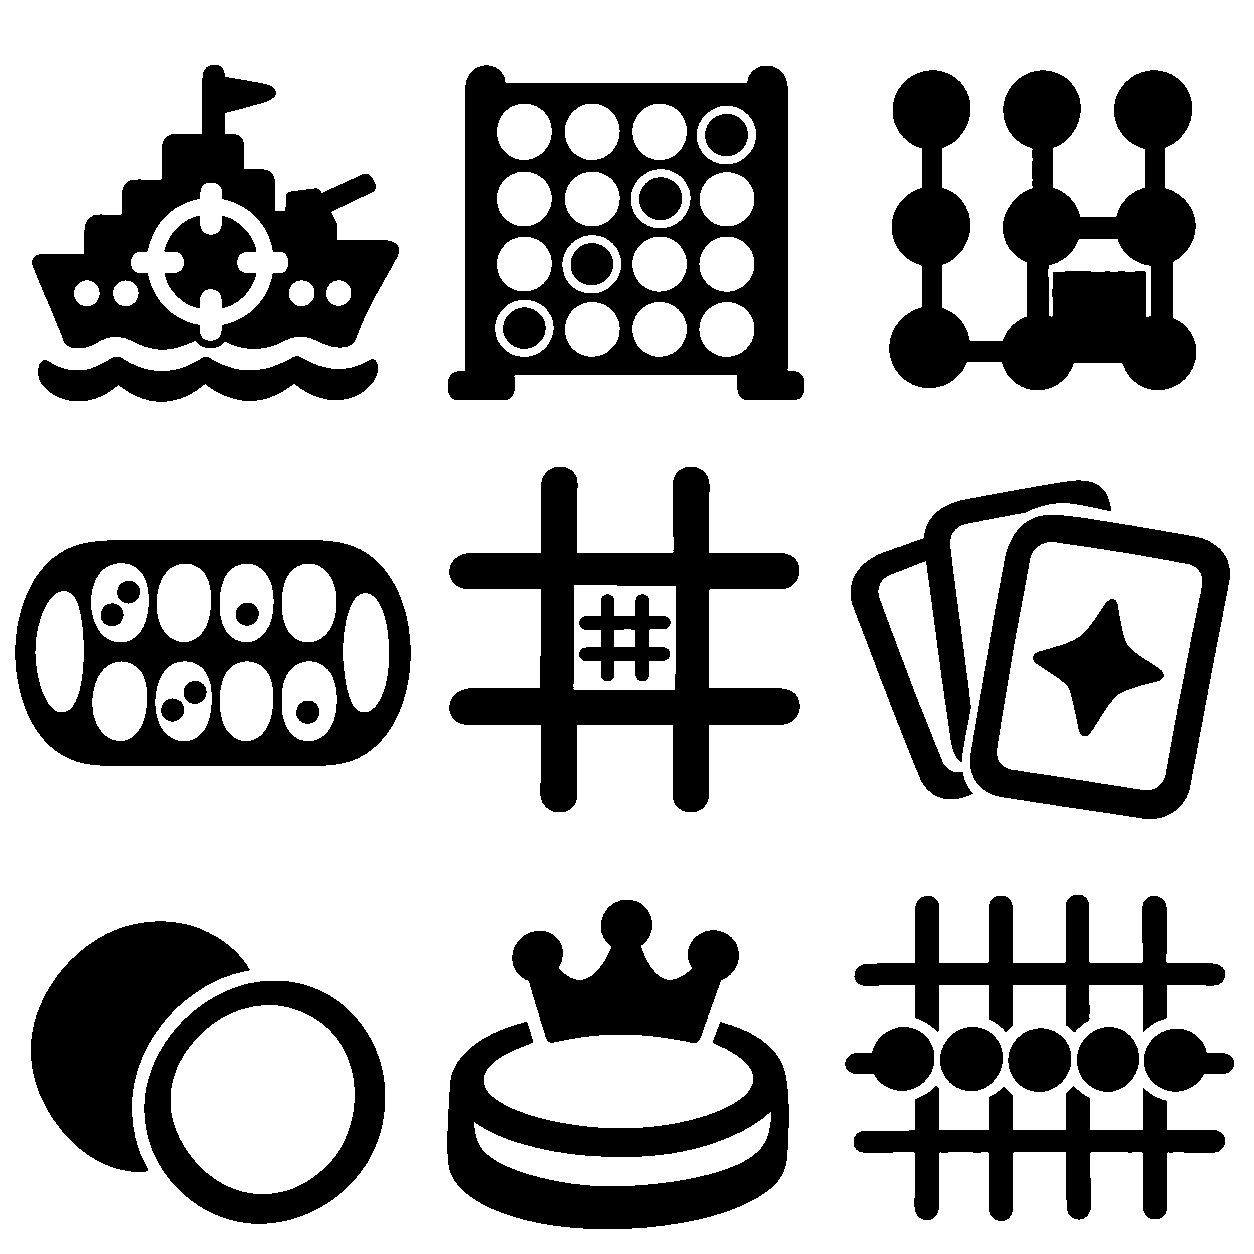
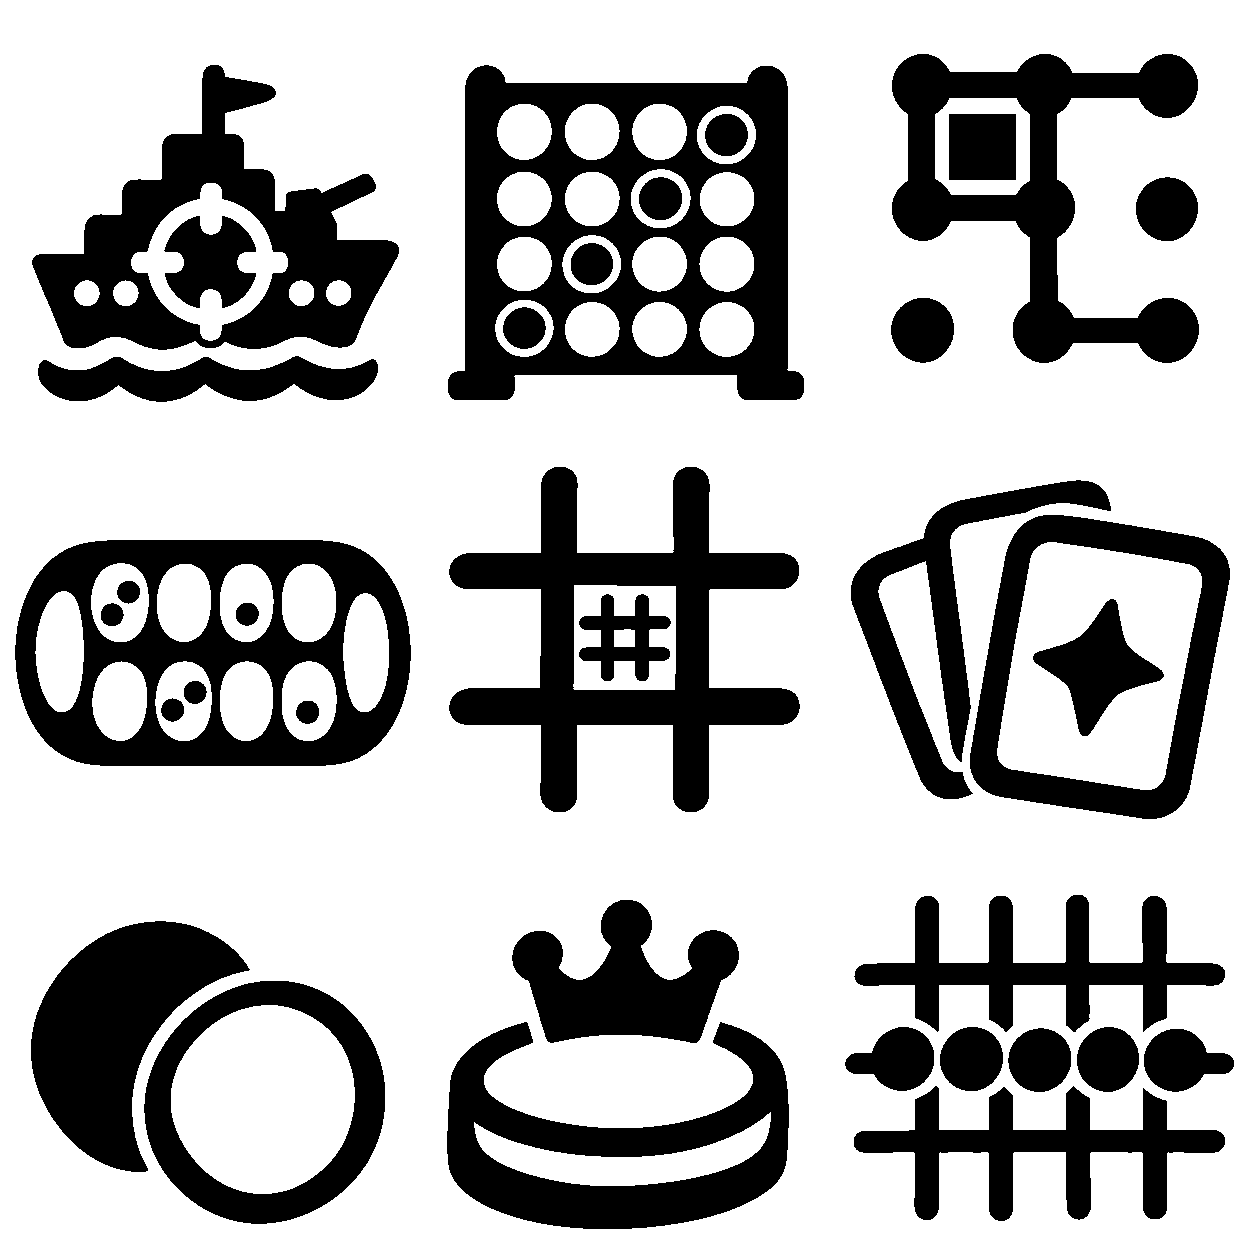
Show game emblems on the home screen
The game picker is six emblem tiles instead of a dropdown, and each saved
game row carries its emblem. All nine emblems are one 4 KB 1-bit strip
(public/art/emblems.png), baked from art/sheets by scripts/bake-art.py and
colored by the page through a CSS mask.

Changed region(s): [[0.7153, 0.0311, 0.9641, 0.311]]

diff --git a/public/index.html b/public/index.html
@@ -113,10 +113,37 @@
   .join-inline { display: grid; grid-template-columns: 1fr auto; gap: 10px; }
   .join-inline > button { min-width: 96px; }
   .settings-card { margin-top: 16px; }
+  /* game emblems: one 1-bit strip (art/emblems.png, baked by scripts/bake-art.py) shown
+     through a mask, so the color is whatever the element's text color is */
+  .emblem {
+    display: none; flex: none; width: 28px; height: 28px; background: currentColor;
+    -webkit-mask-image: url(art/emblems.png); mask-image: url(art/emblems.png);
+    -webkit-mask-repeat: no-repeat; mask-repeat: no-repeat;
+    -webkit-mask-size: 900% 100%; mask-size: 900% 100%;
+    -webkit-mask-position: 0 0; mask-position: 0 0;
+  }
+  @supports ((-webkit-mask-image: none) or (mask-image: none)) { .emblem { display: block; } }
+  .emblem.g-connectfour { -webkit-mask-position: 12.5% 0; mask-position: 12.5% 0; }
+  .emblem.g-dotsboxes { -webkit-mask-position: 25% 0; mask-position: 25% 0; }
+  .emblem.g-mancala { -webkit-mask-position: 37.5% 0; mask-position: 37.5% 0; }
+  .emblem.g-ultimatettt { -webkit-mask-position: 50% 0; mask-position: 50% 0; }
+  .emblem.g-onecard { -webkit-mask-position: 62.5% 0; mask-position: 62.5% 0; }
+  .game-tiles { display: grid; grid-template-columns: repeat(3, 1fr); gap: 8px; }
+  .game-tile {
+    display: flex; flex-direction: column; align-items: center; gap: 7px; min-width: 0; min-height: 94px;
+    padding: 11px 4px 8px; background: var(--abyss); color: var(--mute); font-size: 11px; letter-spacing: .2px; line-height: 1.25;
+  }
+  .game-tile .emblem { width: 44px; height: 44px; }
+  .game-tile-name { color: var(--ink); }
+  .game-tile[aria-checked="true"] { border-color: var(--sonar); color: var(--sonar); background: rgba(52,231,196,.08); box-shadow: 0 0 14px rgba(52,231,196,.14); }
+  .saved-game > .emblem { width: 24px; height: 24px; color: var(--mute); }
+  .saved-game.yours > .emblem { color: var(--sonar); }
+  .saved-game.theirs > .emblem { color: var(--amber); }
+  @media (max-width: 359px) { .saved-game > .emblem { display: none; } } /* no room beside the name on the narrowest phones */
   .move-code { width: 100%; box-sizing: border-box; font-family: inherit; font-size: 12px; word-break: break-all; resize: vertical; background: #04121a; color: var(--ink); border: 1px solid var(--line); border-radius: 10px; padding: 8px; margin-top: 8px; }
   .resume-card .saved-name { color: var(--ink); font-size: 15px; font-weight: 600; }
   .resume-card .saved-meta { color: var(--mute); font-size: 12px; overflow: hidden; text-overflow: ellipsis; white-space: nowrap; }
-  .saved-game button { flex: 0 0 auto; width: auto; padding-inline: 16px; }
+  .saved-game button { flex: 0 0 auto; width: auto; padding-inline: 12px; }
   .saved-game .saved-drop { padding-inline: 0; width: var(--tap-target, 44px); }
 
   /* code share */
@@ -1203,8 +1230,9 @@
       <div id="savedList" class="saved-list"></div>
     </div>
     <h2>Play</h2>
-    <label for="gameSelect">Game</label>
-    <select id="gameSelect"></select>
+    <label id="gameLabel">Game</label>
+    <div id="gameTiles" class="game-tiles" role="radiogroup" aria-labelledby="gameLabel"></div>
+    <select id="gameSelect" class="hidden" aria-hidden="true" tabindex="-1"></select>
     <div id="nameRow" class="hidden">
       <label for="nameFirst">Your name</label>
       <input id="nameFirst" maxlength="16" placeholder="e.g. Skipper" autocomplete="nickname">

diff --git a/public/app.js b/public/app.js
@@ -145,6 +145,7 @@ function applyLaunchGame(gameId) {
   const select = $('gameSelect');
   if (!select || !gameId || !gameMeta(gameId)) return;
   select.value = gameId;
+  syncGameTiles();
   applyDeviceClasses('home');
 }
 function clearLaunchParams() {
@@ -168,6 +169,41 @@ function populateGameSelect() {
     if (game.description) option.title = game.description;
     select.appendChild(option);
   }
+  // The tiles are the picker people see; the hidden select stays the one place
+  // the chosen game is stored, so everything that reads it keeps working.
+  const tiles = $('gameTiles');
+  if (!tiles) return;
+  tiles.innerHTML = '';
+  for (const game of gameCatalog()) {
+    const tile = document.createElement('button');
+    tile.type = 'button';
+    tile.className = 'game-tile';
+    tile.dataset.game = game.id;
+    tile.setAttribute('role', 'radio');
+    if (game.description) tile.title = game.description;
+    const emblem = document.createElement('span');
+    emblem.className = 'emblem g-' + game.id;
+    emblem.setAttribute('aria-hidden', 'true');
+    const name = document.createElement('span');
+    name.className = 'game-tile-name';
+    name.textContent = game.name;
+    tile.append(emblem, name);
+    tile.onclick = () => pickGame(game.id);
+    tiles.appendChild(tile);
+  }
+  syncGameTiles();
+}
+function pickGame(gameId) {
+  const select = $('gameSelect');
+  if (!select || select.value === gameId) return;
+  select.value = gameId;
+  select.dispatchEvent(new Event('change'));
+}
+function syncGameTiles() {
+  const tiles = $('gameTiles');
+  if (!tiles) return;
+  const picked = selectedGameId();
+  Array.from(tiles.children).forEach(tile => tile.setAttribute('aria-checked', tile.dataset.game === picked ? 'true' : 'false'));
 }
 function soloApi(path, method, body) {
   const payload = { ...(body || {}) };
@@ -609,6 +645,12 @@ function renderSavedList() {
     drop.textContent = '\u00d7'; // multiplication sign
     drop.setAttribute('aria-label', `Discard ${name.textContent} ${who}`);
     drop.onclick = () => discardSavedGame(entry);
+    if (meta) {
+      const emblem = document.createElement('span');
+      emblem.className = 'emblem g-' + entry.game;
+      emblem.setAttribute('aria-hidden', 'true');
+      row.append(emblem);
+    }
     row.append(info, resume, drop);
     list.appendChild(row);
   });
@@ -3368,7 +3410,7 @@ async function moveUltimateTTT(idx) {
 document.addEventListener('visibilitychange', () => { if (!document.hidden && pollTimer) poll(); });
 ['pointerdown', 'pointerup', 'touchend', 'click', 'keydown'].forEach(type => document.addEventListener(type, mncEnsureAudio, { passive: true }));
 $('joinCode').addEventListener('input', e => { e.target.value = e.target.value.toUpperCase(); });
-$('gameSelect').addEventListener('change', () => applyDeviceClasses('home'));
+$('gameSelect').addEventListener('change', () => { syncGameTiles(); applyDeviceClasses('home'); });
 window.addEventListener('resize', () => {
   applyDeviceClasses(document.querySelector('section:not(.hidden)')?.id || 'home');
   if (lastView && lastView.ui === 'onecard') layoutOneCardFan(lastView.hand || []);

diff --git a/scripts/bake-art.py b/scripts/bake-art.py
@@ -1,0 +1,95 @@
+"""Bake generated art sheets into the tiny files the page loads.
+
+    python scripts/bake-art.py            write public/art/*
+    python scripts/bake-art.py --check    exit 1 if a baked file is stale
+
+Raw sheets live in art/sheets/ and are never loaded by the page. See
+docs/ART_PROMPTS.md for how the sheets are made. Needs Pillow.
+
+A stamp sheet is black ink on white. Each cell becomes a 1-bit mask with a
+transparent background; the page shows it through CSS mask-image, so the
+color comes from the page, not from the file.
+"""
+import io
+import os
+import sys
+
+from PIL import Image
+
+ROOT = os.path.dirname(os.path.dirname(os.path.abspath(__file__)))
+SHEETS = os.path.join(ROOT, "art", "sheets")
+OUT = os.path.join(ROOT, "public", "art")
+
+# One strip per stamp sheet: cells left to right, in sheet reading order.
+# The page addresses a cell by its index, so the order here is a contract
+# with the .emblem rules in public/index.html.
+STAMPS = {
+    "emblems.png": {
+        "sheet": "01-game-emblems.png",
+        "cols": 3,
+        "rows": 3,
+        "cell": 128,      # baked pixels per side; shown at 28 to 48 CSS px
+        "margin": 0.04,   # empty border inside each baked cell
+    },
+}
+
+
+def ink_mask(image):
+    """Black ink on white paper -> L image, 255 where there is ink."""
+    return image.convert("L").point(lambda p: 255 if p < 128 else 0)
+
+
+def bake_stamps(spec):
+    sheet = Image.open(os.path.join(SHEETS, spec["sheet"]))
+    width, height = sheet.size
+    cols, rows, cell = spec["cols"], spec["rows"], spec["cell"]
+    strip = Image.new("L", (cell * cols * rows, cell), 0)
+    inner = round(cell * (1 - 2 * spec["margin"]))
+    for index in range(cols * rows):
+        col, row = index % cols, index // cols
+        box = (col * width // cols, row * height // rows,
+               (col + 1) * width // cols, (row + 1) * height // rows)
+        ink = ink_mask(sheet.crop(box))
+        bounds = ink.getbbox()
+        if not bounds:
+            raise SystemExit(f"{spec['sheet']}: cell {index + 1} is empty")
+        ink = ink.crop(bounds)
+        scale = inner / max(ink.size)
+        size = (max(1, round(ink.size[0] * scale)), max(1, round(ink.size[1] * scale)))
+        ink = ink.resize(size, Image.LANCZOS)
+        strip.paste(ink, (index * cell + (cell - size[0]) // 2, (cell - size[1]) // 2))
+    # Threshold after the downscale: no gray edge pixels, so the file is 1-bit.
+    bits = strip.point(lambda p: 1 if p >= 128 else 0).convert("P")
+    bits.putpalette([0, 0, 0, 255, 255, 255])
+    buffer = io.BytesIO()
+    bits.save(buffer, "PNG", optimize=True, bits=1, transparency=0)
+    return buffer.getvalue()
+
+
+def main():
+    check = "--check" in sys.argv[1:]
+    stale = []
+    os.makedirs(OUT, exist_ok=True)
+    for name, spec in STAMPS.items():
+        data = bake_stamps(spec)
+        path = os.path.join(OUT, name)
+        current = None
+        if os.path.exists(path):
+            with open(path, "rb") as handle:
+                current = handle.read()
+        if current == data:
+            continue
+        if check:
+            stale.append(name)
+            continue
+        with open(path, "wb") as handle:
+            handle.write(data)
+        print(f"wrote public/art/{name} ({len(data)} bytes)")
+    if stale:
+        print("stale: " + ", ".join(stale) + " (run python scripts/bake-art.py)")
+        return 1
+    return 0
+
+
+if __name__ == "__main__":
+    sys.exit(main())

diff --git a/docs/ART_PROMPTS.md b/docs/ART_PROMPTS.md
@@ -1,8 +1,12 @@
 # Art prompts
 
 Prompts for image assets, written against what the client draws today (everything is
-CSS; there is not one image besides the app icon). Nothing here is generated or wired
-in yet.
+CSS; the app icon was the only image).
+
+Done so far: sheet 1. Its raw sheet is `art/sheets/01-game-emblems.png`, baked to
+`public/art/emblems.png` and shown on the home screen (game picker tiles, saved rows).
+Cell 3 was redone as a single icon and pasted into the sheet; ask for a lone icon
+whenever one cell of a sheet misses.
 
 ## Where art pays, in order
 
@@ -33,7 +37,8 @@ Two kinds of asset, and the prompt style differs for each.
   PNG with every pixel snapped to the nearest ink, so the file has 6 to 8 colors
   no matter what the generator did.
 
-Rules for the bake step (a `scripts/bake-art.py`, not written yet):
+Rules for the bake step (`python scripts/bake-art.py`, `--check` to verify; needs
+Pillow; stamp sheets only so far):
 
 - Raw generator output is kept in `art/sheets/` and is never referenced by the page.
 - Slice each sheet by its grid, trim, downscale to 2x the display size, then threshold
